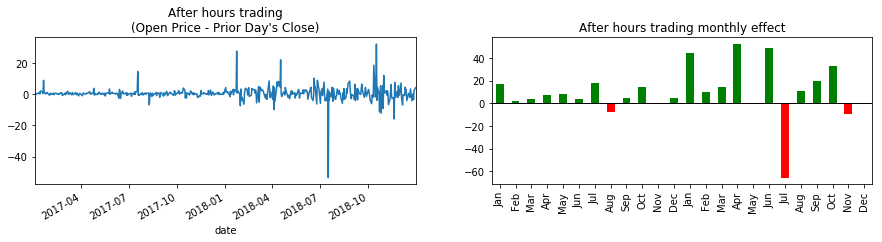
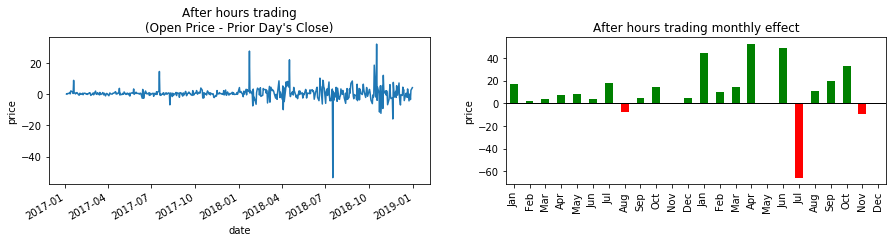
Improve labeling and return axes over figures where possible.

diff --git a/stock_analysis/stock_visualizer.py b/stock_analysis/stock_visualizer.py
@@ -226,27 +226,26 @@ class StockVisualizer(Visualizer):
                       to the plotting function.
 
         Returns:
-            A matplotlib Figure object.
+            A matplotlib Axes object.
         """
         fig, axes = plt.subplots(2, 1, figsize=(15, 15))
-        self.data.close.plot(ax=axes[0], title='Closing Price')
+        self.data.close.plot(ax=axes[0], title='Closing Price').set_ylabel('price')
         monthly = self.data.volume.resample('1M').sum()
         monthly.index = monthly.index.strftime('%b\n%Y')
         monthly.plot(
             kind='bar', ax=axes[1], color='blue', rot=0, title='Volume Traded'
-        )
+        ).set_ylabel('volume traded')
         if tight:
             axes[0].set_xlim(self.data.index.min(), self.data.index.max())
             axes[1].set_xlim(-0.25, axes[1].get_xlim()[1] - 0.25)
-        plt.close()
-        return fig
+        return axes
 
     def after_hours_trades(self):
         """
         Visualize the effect of after hours trading on this asset.
 
         Returns:
-            A matplotlib Figure object.
+            A matplotlib Axes object.
         """
         after_hours = (self.data.open - self.data.close.shift())
 
@@ -256,7 +255,7 @@ class StockVisualizer(Visualizer):
         after_hours.plot(
             ax=axes[0],
             title='After hours trading\n(Open Price - Prior Day\'s Close)'
-        )
+        ).set_ylabel('price')
 
         monthly_effect.index = monthly_effect.index.strftime('%b')
         monthly_effect.plot(
@@ -266,8 +265,8 @@ class StockVisualizer(Visualizer):
             color=np.where(monthly_effect >= 0, 'g', 'r'),
             rot=90
         ).axhline(0, color='black', linewidth=1)
-        plt.close()
-        return fig
+        axes[1].set_ylabel('price')
+        return axes
 
     def open_to_close(self, figsize=(10, 4)):
         """
@@ -277,7 +276,7 @@ class StockVisualizer(Visualizer):
             - figsize: A tuple of (width, height) for the plot dimensions.
 
         Returns:
-            A matplotlib plot object.
+            A matplotlib Figure object.
         """
         is_higher = self.data.close - self.data.open > 0
 
@@ -335,6 +334,7 @@ class StockVisualizer(Visualizer):
             'Differential between asset closing price (this - other)'
         )
         plt.legend()
+        plt.ylabel('price')
         plt.close()
         return fig
 
@@ -517,8 +517,7 @@ class AssetGroupVisualizer(Visualizer):
         fig, axes = self._get_layout()
         for ax, (name, data) in zip(axes, self.data.groupby(self.group_by)):
             sns.distplot(data[column], ax=ax, axlabel=f'{name} - {column}')
-        plt.close()
-        return fig
+        return axes
 
     def _window_calc_func(self, column, periods, name, func, named_arg, **kwargs):
         """
@@ -558,7 +557,7 @@ class AssetGroupVisualizer(Visualizer):
         Visualize the effect of after hours trading on this asset.
 
         Returns:
-            A matplotlib Figure object.
+            A matplotlib Axes object.
         """
         num_categories = self.data[self.group_by].nunique()
         fig, axes = plt.subplots(
@@ -576,6 +575,7 @@ class AssetGroupVisualizer(Visualizer):
                 ax=ax[0],
                 title=f'{name} Open Price - Prior Day\'s Close'
             )
+            ax[0].set_ylabel('price')
 
             monthly_effect.index = monthly_effect.index.strftime('%b')
             monthly_effect.plot(
@@ -585,8 +585,8 @@ class AssetGroupVisualizer(Visualizer):
                 color=np.where(monthly_effect >= 0, 'g', 'r'),
                 rot=90
             ).axhline(0, color='black', linewidth=1)
-        plt.close()
-        return fig
+            ax[1].set_ylabel('price')
+        return axes
 
     def pairplot(self, **kwargs):
         """

diff --git a/stock_analysis/stock_modeler.py b/stock_analysis/stock_modeler.py
@@ -162,7 +162,7 @@ class StockModeler:
             - model_fitted: The fitted model
 
         Returns:
-            A matplotlib figure object.
+            A matplotlib Axes object.
         """
         fig, axes = plt.subplots(1, 2, figsize=(15, 5))
         residuals = pd.Series(
@@ -173,5 +173,4 @@ class StockModeler:
         axes[0].set_ylabel('Residual')
         residuals.plot(kind='kde', ax=axes[1], title='Residuals KDE')
         axes[1].set_xlabel('Residual')
-        plt.close()
-        return fig
+        return axes

diff --git a/README.md b/README.md
@@ -83,6 +83,7 @@ netflix_viz.add_reference_line(
     label=f'highest value ({nflx.high.idxmax():%b %d})',
     alpha=0.5
 )
+ax.set_ylabel('price ($)')
 plt.show()
 ```
 
